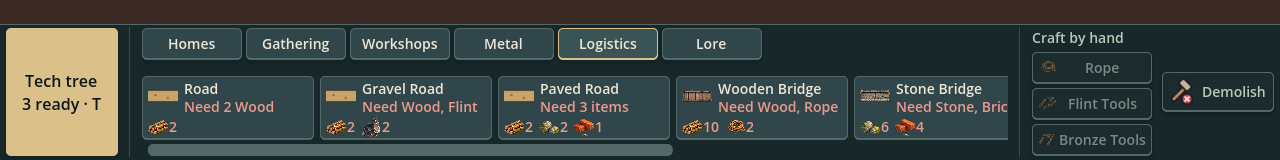
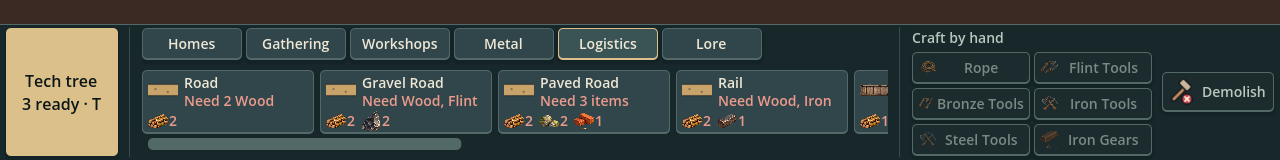
Slim the bottom bar: two-column Craft by hand grid, bar 245 to about 130 px
Claude-Session: https://claude.ai/code/session_015byfUbsQVzagLBAWdsJeHQ

diff --git a/docs/design-system/decision-log.md b/docs/design-system/decision-log.md
@@ -826,3 +826,7 @@ Stage 2 of 2: the nine gated techs now do something, the gate is gone, and the e
 - **A loaded run, or a run started at a stage, stays quiet.** The warm lines and the Bronze Dawn banner are marked as told when a run loads (`scripts/flavor.gd`), so a stage start no longer stacks four old toasts over the map.
 - "Find coal" and "Find the Iron Hills" count as done when the coal or iron is already in the stores, since a stage start has the metal in hand without the fog lifted.
 - The cutscene player no longer lays out a still after the last one has ended (`stills[index]` out of bounds, once on entering Ironfall); a test reproduces it on the old code.
+
+## 2026-10-12: Bigger map, slimmer bottom bar (PR pending)
+- Claude answered the project owner's note that the map is small beside the panels around it. The bottom bar's Craft by hand group was one tall column of seven buttons and set the whole bar at 245 px; it is now a grid of two columns, and the bar is about 130 px at 1280x800. The map went from 1010x380 to 1010x500 px (about 30% more play area) with no card, tab or button changed in size or meaning.
+- The top bar (four fixed rows of chips, kept steady since playtest 4 so the map never jumps) and the side panel are untouched for now; the next step, if the map still feels small, is a collapsible side panel.
